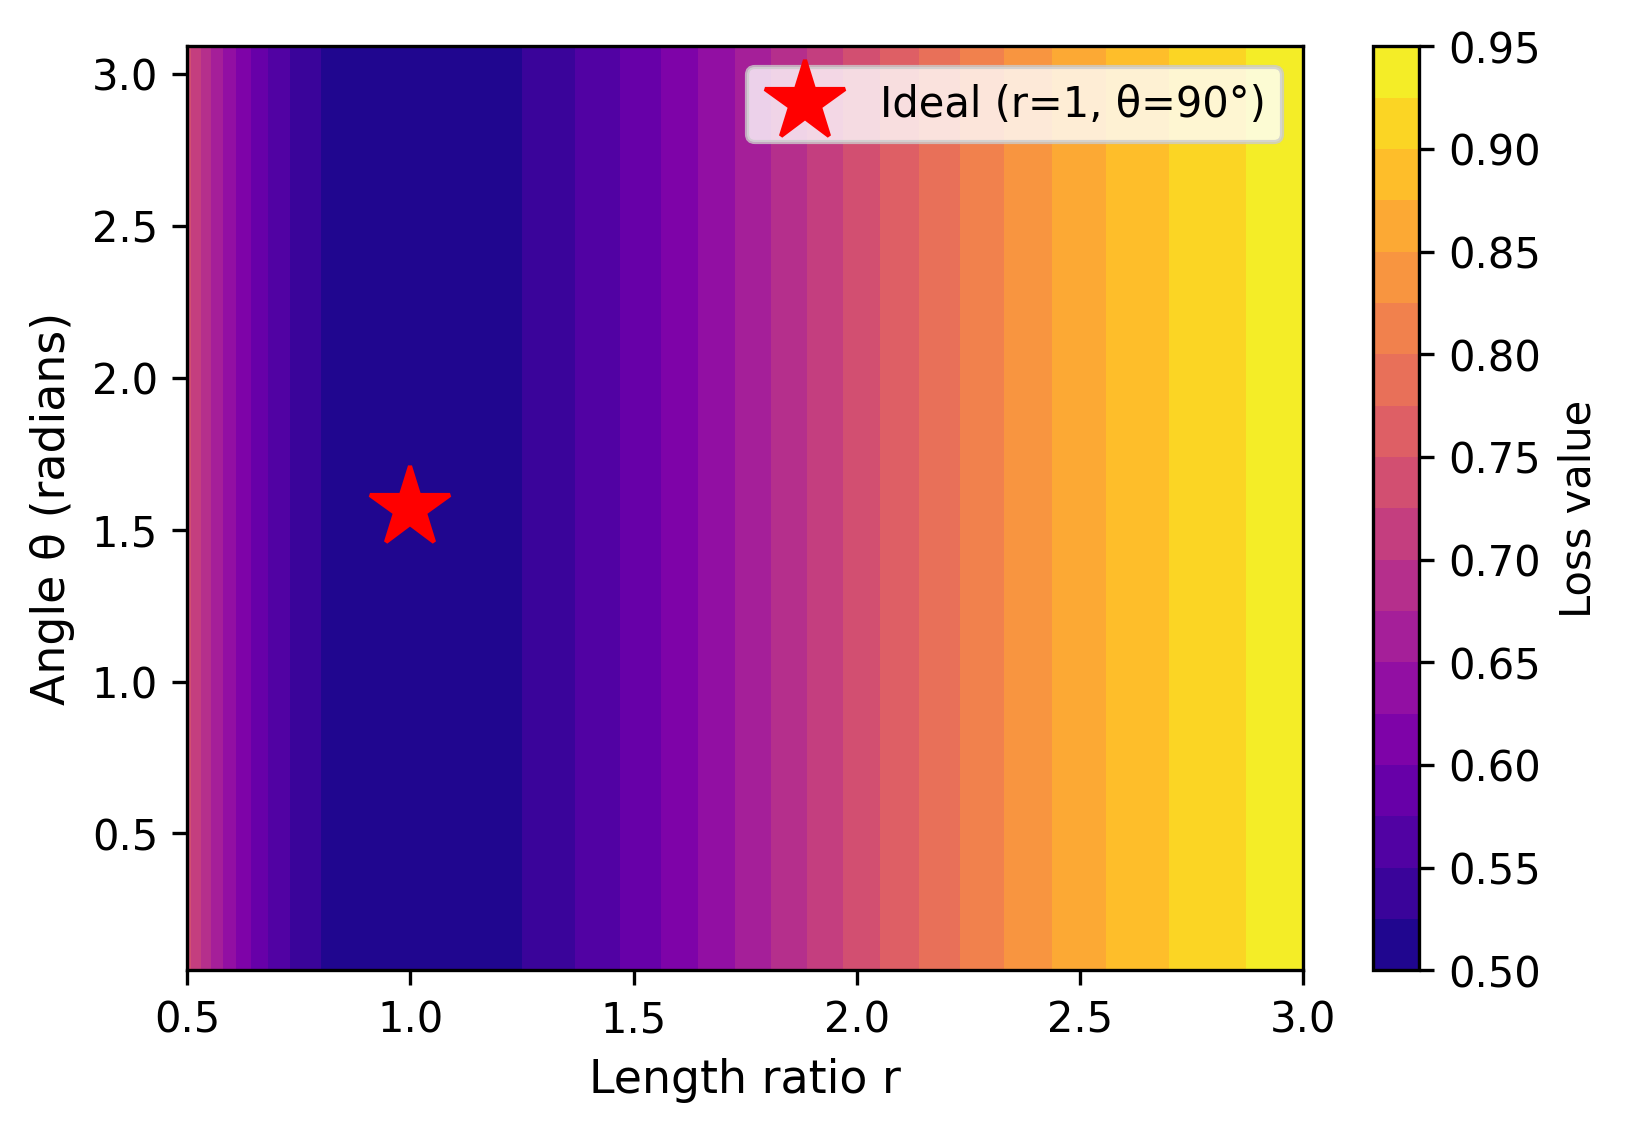
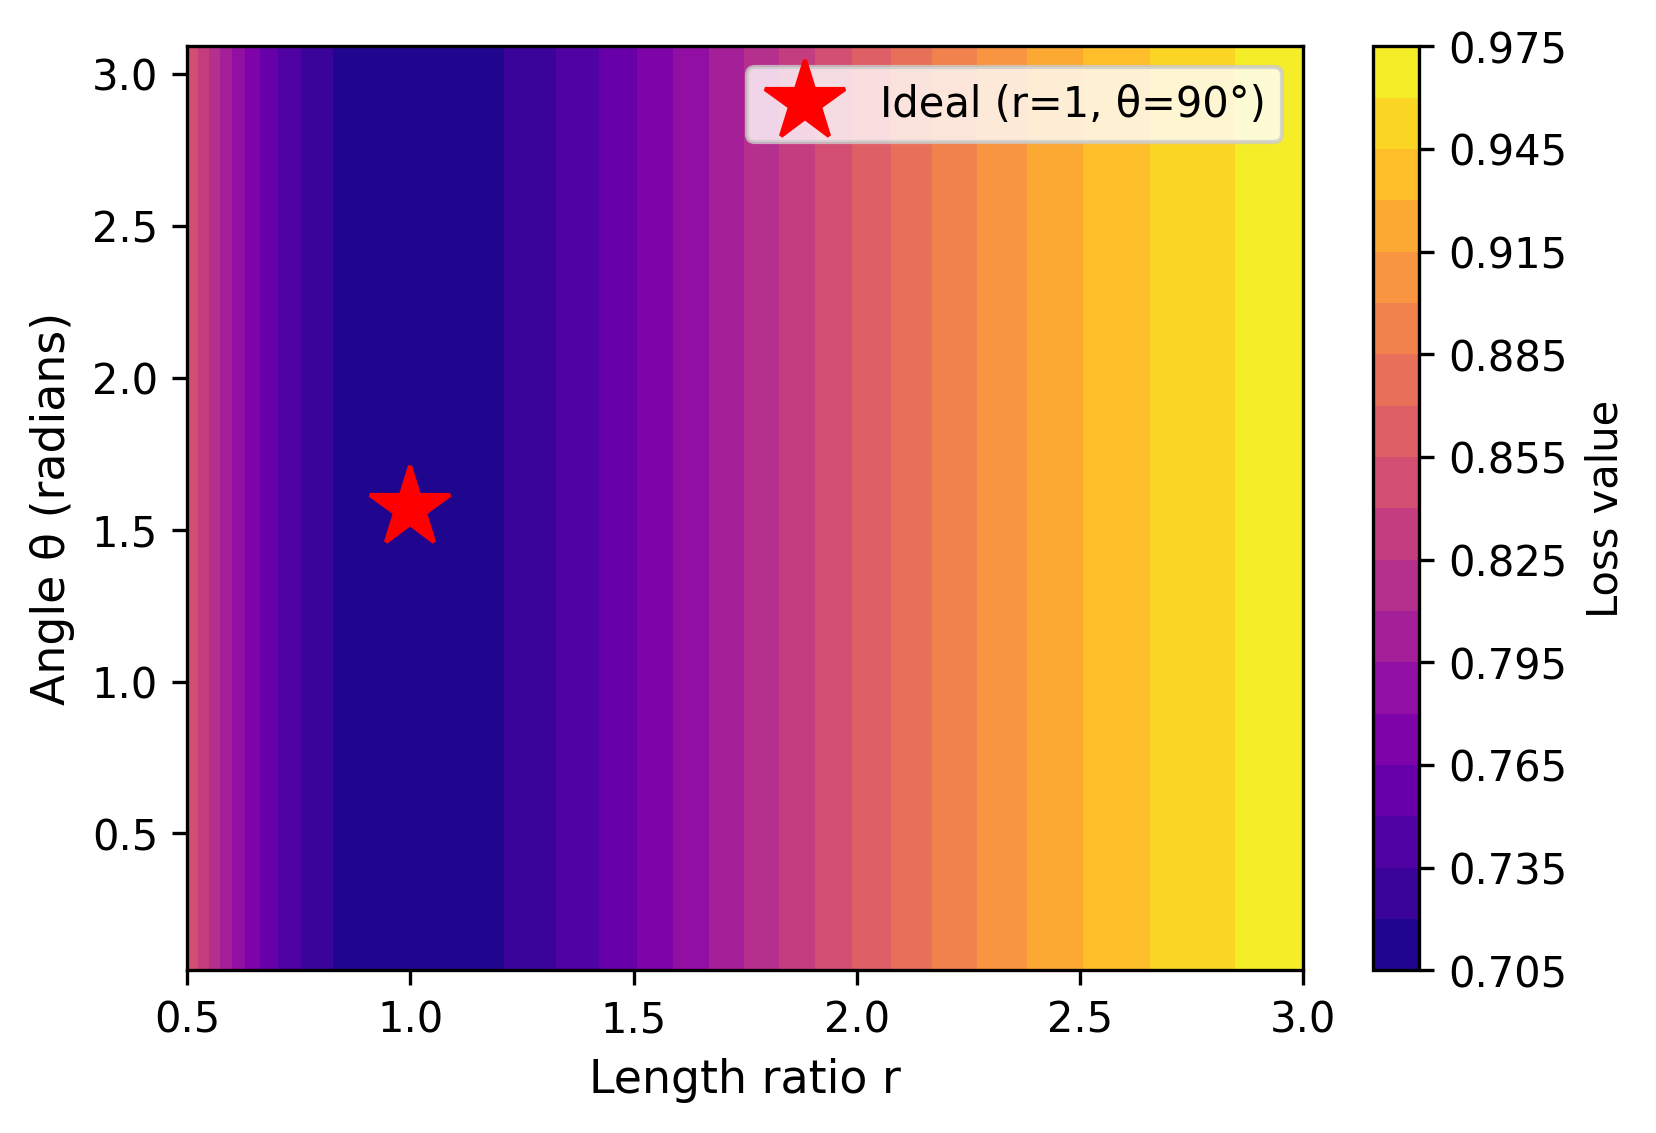
Replace frobenius norm definition with inverse broadcast transformation
Use g^{\times P}(X) (inverse broadcast transformation) instead of w(X) for
the frobenius norm loss. This provides more natural scaling and a proper
loss landscape with minima at the ideal points.

Changes:
- Added g_broadcast_transformation() to apply inverse scaling (q^{-1})
- Updated frobenius norm loss to 1/||g^{×P}(X)||_F
- Updated table notation: w(X) → n_q^{×P}(X) and n_g^{×P}(X)
- Updated visualizations with new loss definition

The frobenius norm now shows proper loss behavior:
- 1D: Minimum at r=1
- 2D: Minimum at ideal point (r=1, θ=90°)

diff --git a/archival/method.tex b/archival/method.tex
@@ -66,56 +66,72 @@ Figure \ref{fig:gt_loss} gives a graph of $\ell$ when $D=1$.
 \midrule
 Distortion\textsuperscript{\citet{Kohli2021-lr}} & $\sigma_{\max}(X) / \sigma_{\min}(X)$ & No & Yes & No & Yes \\
 Log determinant\textsuperscript{\citet{Boyd2004-ql}} & $\log(\det(X))$ & No & No & No & No \\
-Frobenius norm & $\|w(X)\|_F$ & No & No & Yes & No \\
 Isometry loss & $\sum_{d=1}^D g(\sigma_d)$ & Yes & Yes & No & Yes \\
-Frob. pseudoinverse & $\|w(X)^\dagger\|_F$ & No & Yes & Yes & Yes \\
-\isometrypursuit\textsuperscript{\citet{Yuan2006-bt}} & $\arg \min_{\beta} \|\beta\|_{1,2} : I_D = w(X) \beta$ & Yes & Yes & Yes & Yes \\
+Frobenius norm & $1/\|n_g^{\times P}(X)\|_F$ & No & No & Yes & No \\
+Frob. pseudoinverse & $\|n_q^{\times P}(X)^\dagger\|_F$ & No & Yes & Yes & Yes \\
+\isometrypursuit\textsuperscript{\citet{Yuan2006-bt}} & $\arg \min_{\beta} \|\beta\|_{1,2} : I_D = n_q^{\times P}(X) \beta$ & Yes & Yes & Yes & Yes \\
 \bottomrule
 \end{tabular}
 \end{table}
 
-\begin{figure}[t]
+\begin{figure}[p]
 \centering
-% Row 1: 1D loss functions (all 6, ordered to match table)
-\subcaptionbox{Distortion\label{fig:loss_1d_condition}}
-{\includegraphics[width = .16\textwidth]{../figures/loss_1d_condition_number.png}}
-\subcaptionbox{Log det\label{fig:loss_1d_logdet}}
-{\includegraphics[width = .16\textwidth]{../figures/loss_1d_log_det.png}}
-\subcaptionbox{Frob. norm\label{fig:loss_1d_frobenius}}
-{\includegraphics[width = .16\textwidth]{../figures/loss_1d_frobenius_norm.png}}
-\subcaptionbox{Isometry loss\label{fig:loss_1d_iso}}
-{\includegraphics[width = .16\textwidth]{../figures/loss_1d_isometry_loss.png}}
-\subcaptionbox{Frob. pseudoinv.\label{fig:loss_1d_frob}}
-{\includegraphics[width = .16\textwidth]{../figures/loss_1d_frob_pseudoinverse.png}}
-\subcaptionbox{Isometry pursuit\label{fig:loss_1d_gl}}
-{\includegraphics[width = .16\textwidth]{../figures/loss_1d_gl_pseudoinverse.png}}
+% 6 rows × 2 columns: Column 1 = 1D plots, Column 2 = 2D plots
+%
+% Row 1: Distortion
+\subcaptionbox{Distortion 1D\label{fig:loss_1d_condition}}
+{\includegraphics[width = 0.3072\textwidth]{../figures/loss_1d_condition_number.png}}
+\hfill
+\subcaptionbox{Distortion 2D\label{fig:loss_2d_condition}}
+{\includegraphics[width = 0.3072\textwidth]{../figures/loss_2d_condition_number.png}}
+\\[0.2cm]
 
-% Row 2: 2D loss functions (ordered to match table)
+% Row 2: Log det
+\subcaptionbox{Log det 1D\label{fig:loss_1d_logdet}}
+{\includegraphics[width = 0.3072\textwidth]{../figures/loss_1d_log_det.png}}
+\hfill
+\subcaptionbox{Log det 2D\label{fig:loss_2d_logdet}}
+{\includegraphics[width = 0.3072\textwidth]{../figures/loss_2d_log_det.png}}
+\\[0.2cm]
 
-\subcaptionbox{Distortion (good)\label{fig:loss_2d_condition}}
-{\includegraphics[width = .24\textwidth]{../figures/loss_2d_condition_number.png}}
-\subcaptionbox{Log det (bad)\label{fig:loss_2d_logdet}}
-{\includegraphics[width = .24\textwidth]{../figures/loss_2d_log_det.png}}
-\subcaptionbox{Frob. norm (bad)\label{fig:loss_2d_frobenius}}
-{\includegraphics[width = .24\textwidth]{../figures/loss_2d_frobenius_norm.png}}
-\subcaptionbox{Isometry loss (bad)\label{fig:loss_2d_isometry}}
-{\includegraphics[width = .24\textwidth]{../figures/loss_2d_isometry_loss.png}}
+% Row 3: Isometry loss
+\subcaptionbox{Isometry loss 1D\label{fig:loss_1d_iso}}
+{\includegraphics[width = 0.3072\textwidth]{../figures/loss_1d_isometry_loss.png}}
+\hfill
+\subcaptionbox{Isometry loss 2D\label{fig:loss_2d_iso}}
+{\includegraphics[width = 0.3072\textwidth]{../figures/loss_2d_isometry_loss.png}}
+\\[0.2cm]
 
-% Row 3: 2D loss functions (remaining)
+% Row 4: Frobenius norm
+\subcaptionbox{Frob. norm 1D\label{fig:loss_1d_frobenius}}
+{\includegraphics[width = 0.3072\textwidth]{../figures/loss_1d_frobenius_norm.png}}
+\hfill
+\subcaptionbox{Frob. norm 2D\label{fig:loss_2d_frobenius}}
+{\includegraphics[width = 0.3072\textwidth]{../figures/loss_2d_frobenius_norm.png}}
+\\[0.2cm]
 
-\subcaptionbox{Frob. pseudoinv. (good)\label{fig:loss_2d_frob}}
-{\includegraphics[width = .24\textwidth]{../figures/loss_2d_frob_pseudoinverse.png}}
-\subcaptionbox{Isometry pursuit (good)\label{fig:loss_2d_gl}}
-{\includegraphics[width = .24\textwidth]{../figures/loss_2d_gl_pseudoinverse.png}}
+% Row 5: Frobenius pseudoinverse
+\subcaptionbox{Frob. pseudoinv. 1D\label{fig:loss_1d_frob}}
+{\includegraphics[width = 0.3072\textwidth]{../figures/loss_1d_frob_pseudoinverse.png}}
+\hfill
+\subcaptionbox{Frob. pseudoinv. 2D\label{fig:loss_2d_frob}}
+{\includegraphics[width = 0.3072\textwidth]{../figures/loss_2d_frob_pseudoinverse.png}}
+\\[0.2cm]
+
+% Row 6: Isometry pursuit
+\subcaptionbox{Isometry pursuit 1D\label{fig:loss_1d_gl}}
+{\includegraphics[width = 0.3072\textwidth]{../figures/loss_1d_gl_pseudoinverse.png}}
+\hfill
+\subcaptionbox{Isometry pursuit 2D\label{fig:loss_2d_gl}}
+{\includegraphics[width = 0.3072\textwidth]{../figures/loss_2d_gl_pseudoinverse.png}}
 
 \caption{
-Comprehensive loss function comparison for isometry pursuit.
-\textit{Row 1:} 1D loss behavior for 1×1 matrices (X=[r]).
-\textit{Rows 2-3:} 2D loss landscapes for 2×2 matrices parameterized by length ratio $r$ and angle $\theta$.
-Red markers indicate the ideal point: $r=1$ (unit-length), $\theta=\pi/2$ (orthogonal for 2D).
+Comprehensive loss function comparison for isometry pursuit (6 rows × 2 columns).
+Left column: 1D loss curves for $X = [[r]]$ showing loss behavior versus vector length.
+Right column: 2D loss landscapes for 2×2 matrices parametrized by length ratio $r$ and angle $\theta$.
+Red vertical dashed line in 1D plots marks $r=1$ (optimal). Red star in 2D plots marks $(r=1, \theta=\pi/2)$ (ideal).
+Panels (a,i,k): Good losses exhibit \textit{maxima} at optimal points. Panels (b,c,d,e,g,h): Bad losses exhibit minima, indicating they do not reliably prefer orthonormal solutions.
 See Table \ref{tab:loss_functions} for mathematical definitions.
-Good losses (panels a, e-f, g, k-l) prefer unit-length orthogonal solutions.
-Bad losses (panels b-d, h-j) do not reliably select orthonormal submatrices, including our ground truth isometry loss.
 \label{fig:loss_landscapes}
 }
 \end{figure}
@@ -149,10 +165,10 @@ q(v_1) &= q(v_2) \; \forall \; v_1, v_2 \in \mathbb R^D : \|v_1\|_2 = \|v_2\|_2.
 \end{definition}
 
 We use such functions to normalize column-vector length in such a way that vectors of length $1$ prior to normalization have longest length after normalization and vectors are shrunk proportionately to their deviation from $1$. 
-That is, we normalize vectors by 
+That is, we normalize vectors by
 \begin{align}
 n: \mathbb R^D  &\to \mathbb R^D \\
-v &\mapsto {q(v) }v
+v &\mapsto {q(v) } \frac{v}{\|v\|_2}
 \end{align}
 and matrices by
 \begin{align}
@@ -163,7 +179,7 @@ w: \mathbb R^{D \times P}  &\to \mathbb R^{D \times P} \\
 We choose $q$ as follows.
 \begin{align}
 q: \mathbb R^D  &\to \mathbb R^+ \\
-v  &\mapsto \frac{e^{\|v\|_2} + e^{\|v\|_2^{-1}}}{2e}.
+v  &\mapsto \frac{2e}{e^{\|v\|_2} + e^{\|v\|_2^{-1}}}.
 \label{eq:normalization}
 \end{align}
 

diff --git a/isometry_pursuit/exec/visualize_loss_landscapes.py b/isometry_pursuit/exec/visualize_loss_landscapes.py
@@ -15,7 +15,7 @@ import numpy as np
 import matplotlib.pyplot as plt
 
 from isometry_pursuit.loss import isometry_loss, group_lasso_norm
-from isometry_pursuit.transformation import exponential_transformation
+from isometry_pursuit.transformation import exponential_transformation, g_broadcast_transformation
 
 
 def compute_1d_losses(r):
@@ -39,16 +39,17 @@ def compute_1d_losses(r):
     # Nuclear norm: sum of singular values = r
     losses['nuclear_norm'] = abs(r)
 
-    # Apply normalization using the existing exponential_transformation
-    X_norm = exponential_transformation(X)
-
-    # Frobenius norm: 1 / ||w(X)||_F^2 (squared to remove square root compression)
-    frob_norm_squared = np.linalg.norm(X_norm, 'fro') ** 2
-    losses['frobenius_norm'] = 1.0 / frob_norm_squared if frob_norm_squared > 1e-14 else np.inf
+    # Frobenius norm: 1 / ||g^{×P}(X)||_F (using inverse broadcast transformation)
+    X_g = g_broadcast_transformation(X)
+    frob_norm_g = np.linalg.norm(X_g, 'fro')
+    losses['frobenius_norm'] = 1.0 / frob_norm_g if frob_norm_g > 1e-14 else np.inf
 
     # Isometry loss: operates on raw X (already correct)
     iso_loss = isometry_loss(X)
     losses['isometry_loss'] = iso_loss if np.isfinite(iso_loss) else np.nan
+
+    # Apply n_q^{×P} transformation for pseudoinverse-based losses
+    X_norm = exponential_transformation(X)
 
     # GL norm of pseudoinverse: ||w(X)^†||_{1,2}
     X_norm_pinv = np.linalg.pinv(X_norm)
@@ -83,16 +84,17 @@ def compute_2d_losses(r, theta):
     # Nuclear norm
     losses['nuclear_norm'] = sv_max + sv_min
 
-    # Apply normalization
-    X_norm = exponential_transformation(X)
-
-    # Frobenius norm: 1 / ||w(X)||_F^2 (squared to remove square root compression)
-    frob_norm_squared = np.linalg.norm(X_norm, 'fro') ** 2
-    losses['frobenius_norm'] = 1.0 / frob_norm_squared if frob_norm_squared > 1e-14 else np.inf
+    # Frobenius norm: 1 / ||g^{×P}(X)||_F (using inverse broadcast transformation)
+    X_g = g_broadcast_transformation(X)
+    frob_norm_g = np.linalg.norm(X_g, 'fro')
+    losses['frobenius_norm'] = 1.0 / frob_norm_g if frob_norm_g > 1e-14 else np.inf
 
     # Isometry loss
     iso_loss = isometry_loss(X)
     losses['isometry_loss'] = iso_loss if np.isfinite(iso_loss) else np.nan
+
+    # Apply n_q^{×P} transformation for pseudoinverse-based losses
+    X_norm = exponential_transformation(X)
 
     # GL norm of pseudoinverse and Frobenius norm of pseudoinverse: use w(X)
     if sv_min > 1e-14:

diff --git a/isometry_pursuit/transformation.py b/isometry_pursuit/transformation.py
@@ -48,3 +48,41 @@ def exponential_transformation(X, power=1):
     transformed_X = np.einsum("j,ij->ij", exp_values, normalized_X)
 
     return transformed_X
+
+
+def g_broadcast_transformation(X):
+    """
+    Applies the inverse broadcast transformation g^{×P}(X) to the input matrix.
+
+    This uses q^{-1} (inverse of column norms) instead of q, providing direct
+    scaling without requiring a reciprocal loss.
+
+    Parameters:
+    X (numpy.ndarray): A 2D array of shape (D, P)
+
+    Returns:
+    numpy.ndarray: Transformed matrix g^{×P}(X) of the same shape (D, P)
+    """
+    # Compute the L2 norm of each column
+    norms = np.linalg.norm(X, axis=0)
+    normalized_X = X / norms[np.newaxis, :]
+
+    # Use inverse of norms (q^{-1})
+    inverse_norms = norms ** (-1)
+
+    # Compute scaling factors based on inverse norms
+    with warnings.catch_warnings(record=True) as w:
+        warnings.simplefilter("always")
+        exp_values = ((np.exp(inverse_norms) + np.exp(inverse_norms ** (-1))) ** (-1)) * 2 * np.e
+
+        for warning in w:
+            if "overflow" in str(warning.message).lower():
+                print(f"g_broadcast_transformation overflow warning: {warning.message}")
+                print(f"inverse_norms shape: {inverse_norms.shape}")
+                print(f"inverse_norms min: {np.min(inverse_norms)}, max: {np.max(inverse_norms)}")
+                break
+
+    # Apply the transformation using einsum
+    transformed_X = np.einsum("j,ij->ij", exp_values, normalized_X)
+
+    return transformed_X
